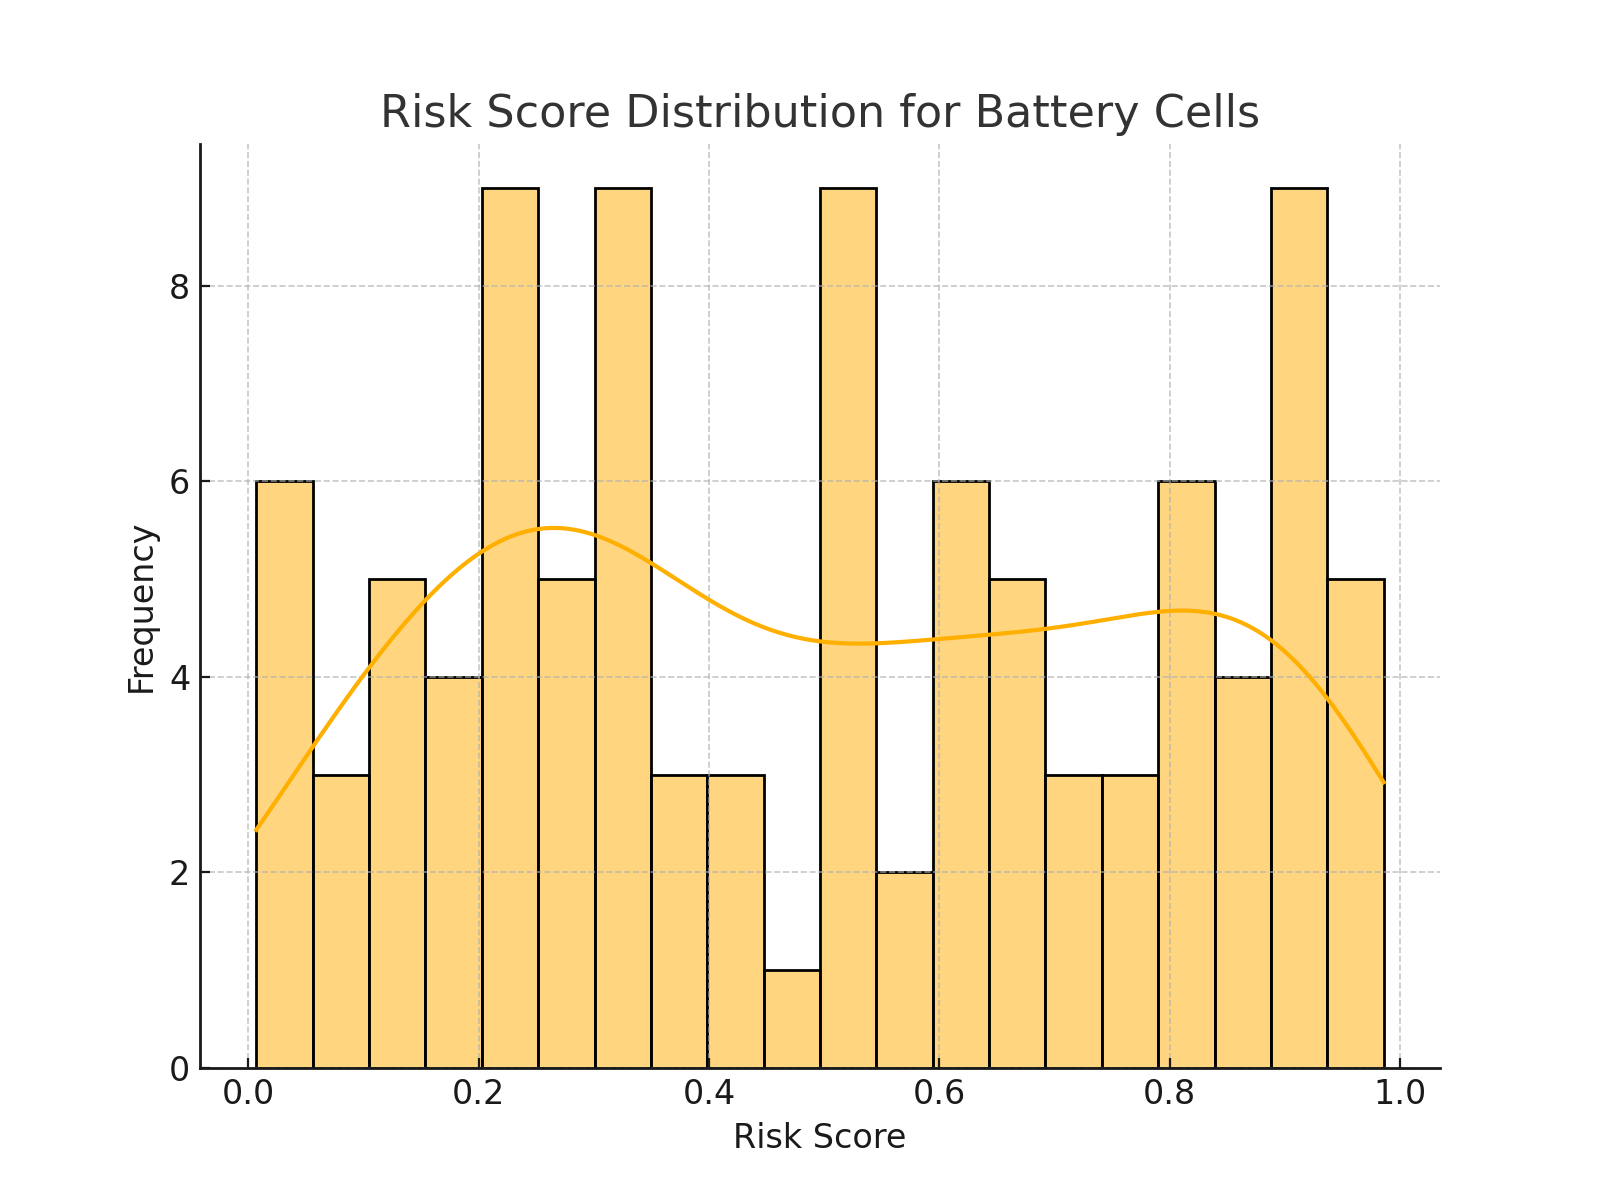
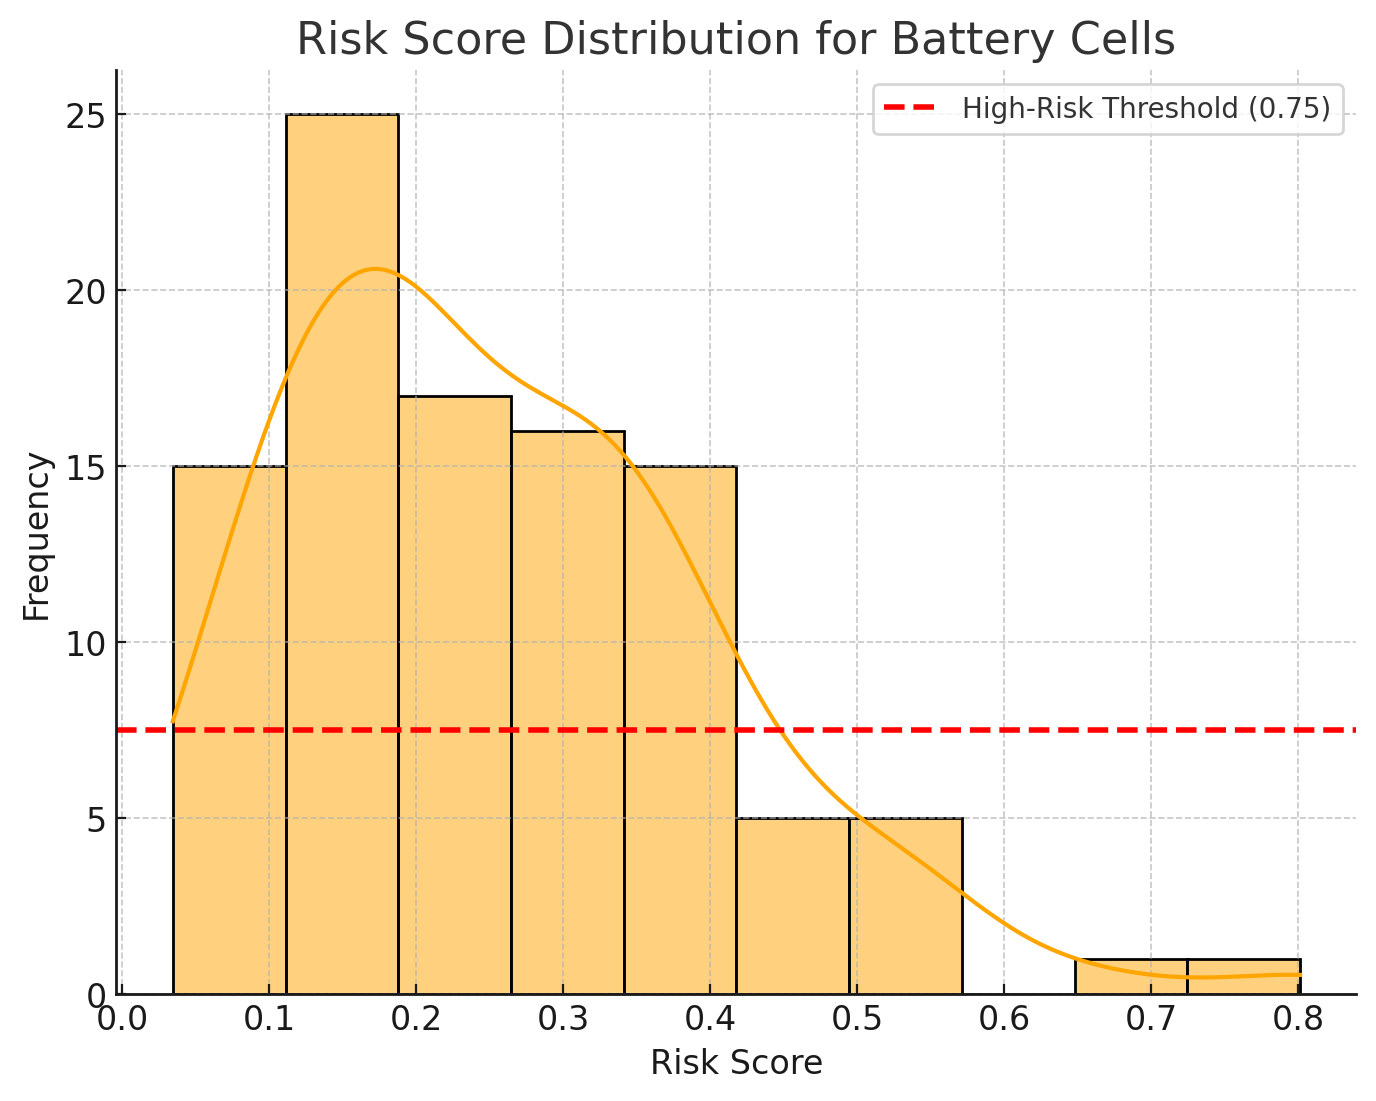
plot modified

diff --git a/README.md b/README.md
@@ -118,6 +118,8 @@ The following plots provide a detailed view of the model's performance:
    - The x-axis represents the risk score, with higher scores indicating higher risk.
    - Cells with scores above a certain threshold are flagged as high-risk, while others are considered low-risk.
    - This distribution helps in identifying clusters of cells that require further testing or quality control actions.
+   The Risk Score Distribution plot provides a histogram of predicted risk scores for the battery cells. The Kernel Density Estimate (KDE) curve superimposed on the histogram offers a smooth estimate of the distribution of the risk scores, showing how the scores are spread out.
+   A horizontal threshold line at 7.5 indicates the high-risk cutoff. Cells with frequencies above this line are considered high-risk, while those below the threshold are low-risk. The KDE curve helps to visualize the underlying pattern in the risk scores, showing that most cells have lower risk scores, with fewer cells reaching the higher-risk range.
 
 4. **Performance Metrics**  
    You can find the detailed metrics, including accuracy, precision, recall, and F1-score, in the following file:  
